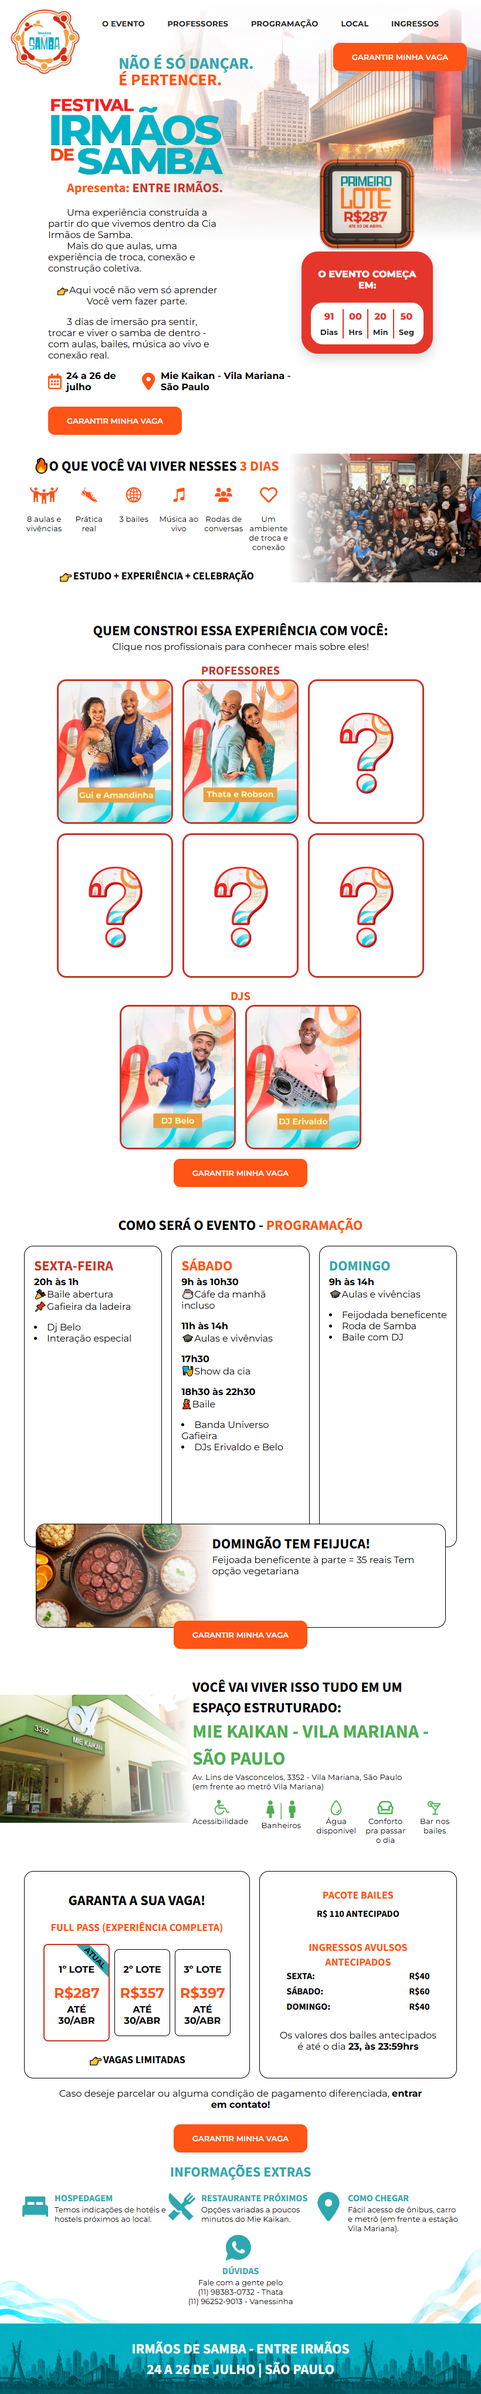
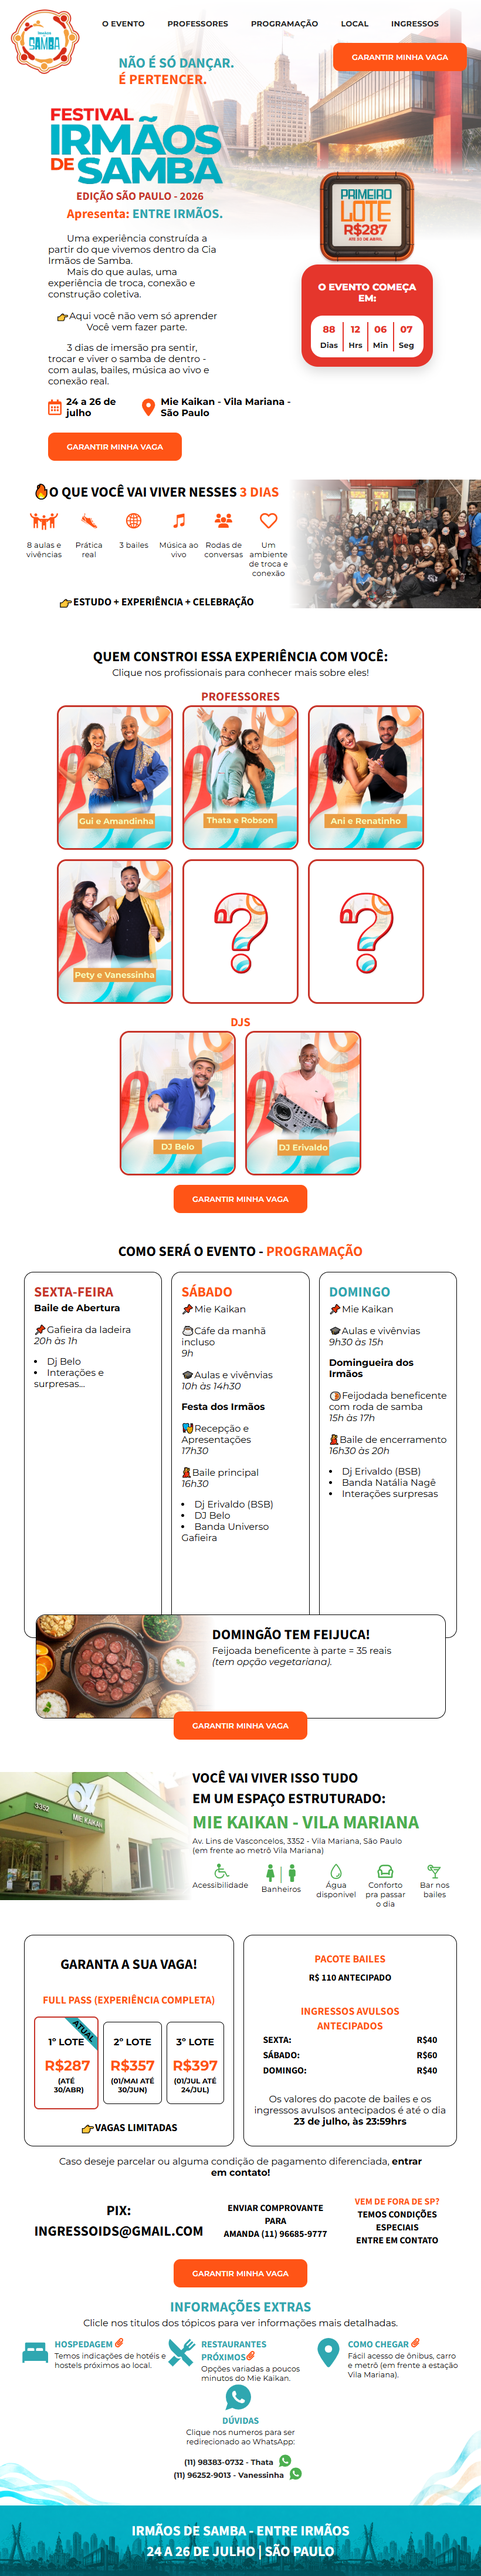
Subindo alterações pequenas

Changed region(s): [[0.0, 0.0, 1.0, 0.9975]]

diff --git a/frontend/src/App.jsx b/frontend/src/App.jsx
@@ -391,6 +391,9 @@ function App() {
               <div>
                 <p>
                   &#128204;Gafieira da ladeira<br></br>
+                  <ul>
+                    <li>Rua Mourato Coelho 466, Pinheiros</li>
+                  </ul>
                   <em>20h às 1h</em>
                 </p>
 
@@ -410,7 +413,7 @@ function App() {
             </p>
             <div>
               <p>
-                &#9749;Cáfe da manhã incluso<br></br>
+                &#9749;Recepção com café da manhã incluso<br></br>
                 <em>9h</em>
               </p>
               <p>
@@ -421,13 +424,13 @@ function App() {
               <p><strong>Festa dos Irmãos</strong></p>
 
               <p>
-                &#127917;Recepção e Apresentações<br></br>
-                <em>17h30</em>
+                &#127917;Recepção e Show da Cia<br></br>
+                <em>17h</em>
               </p>
 
               <p>
                 &#128131;Baile principal<br></br>
-                <em>16h30</em>
+                <em>18h30</em>
               </p>
 
               <ul>
@@ -447,14 +450,14 @@ function App() {
 
             <div>
               <p>
-                &#127891;Aulas e vivênvias<br></br>
+                &#127891;Aulas e vivências<br></br>
                 <em>9h30 às 15h</em>
               </p>
 
               <p><strong>Domingueira dos Irmãos</strong></p>
 
               <p>
-                &#127835;Feijodada beneficente com roda de samba<br></br>
+                &#127835;Feijoada beneficente com roda de samba<br></br>
                 <em>15h às 17h</em>
               </p>
 
@@ -608,7 +611,7 @@ function App() {
               </div>
             </div>
 
-            <p>Os valores do pacote de bailes e os ingressos avulsos antecipados é até o dia <strong>23 de julho, às 23:59hrs</strong></p>
+            <p>Os valores do pacote de bailes e dos ingressos avulsos antecipados valem até o dia <strong>23 de julho, às 23:59hrs</strong></p>
 
             {/*
             <p>Feijoada beneficente à parte = 35 reais <br></br> Tem opção vegetariana</p>
@@ -655,21 +658,21 @@ function App() {
           <div className='extra-content-box'>
             <IoBedSharp />
             <div className='extra-content-box-text'>
-              <h2>Hospedagem <FaPaperclip className='clip-svg'/></h2>
+              <h2>Hospedagem <FaPaperclip className='clip-svg' /></h2>
               <p>Temos indicações de hotéis e hostels próximos ao local.</p>
             </div>
           </div>
           <div className='extra-content-box'>
             <IoRestaurantSharp />
             <div className='extra-content-box-text'>
-              <h2>Restaurantes<br></br>próximos<FaPaperclip className='clip-svg'/></h2>
+              <h2>Restaurantes<br></br>próximos<FaPaperclip className='clip-svg' /></h2>
               <p>Opções variadas a poucos minutos do Mie Kaikan.</p>
             </div>
           </div>
           <div className='extra-content-box'>
             <FaLocationDot />
             <div className='extra-content-box-text'>
-              <h2>Como chegar <FaPaperclip className='clip-svg'/></h2>
+              <h2>Como chegar <FaPaperclip className='clip-svg' /></h2>
               <p>Fácil acesso de ônibus, carro e metrô (em frente a estação Vila Mariana).</p>
             </div>
           </div>
@@ -687,7 +690,7 @@ function App() {
               >
                 (11) 98383-0732 - Thata<IoLogoWhatsapp className='svg-out' /></a></strong><br></br><strong>
                 <a
-                  href="https://wa.me/551162529013"
+                  href="https://wa.me/5511962529013"
                   target="_blank"
                   rel="noopener noreferrer"
                 >
